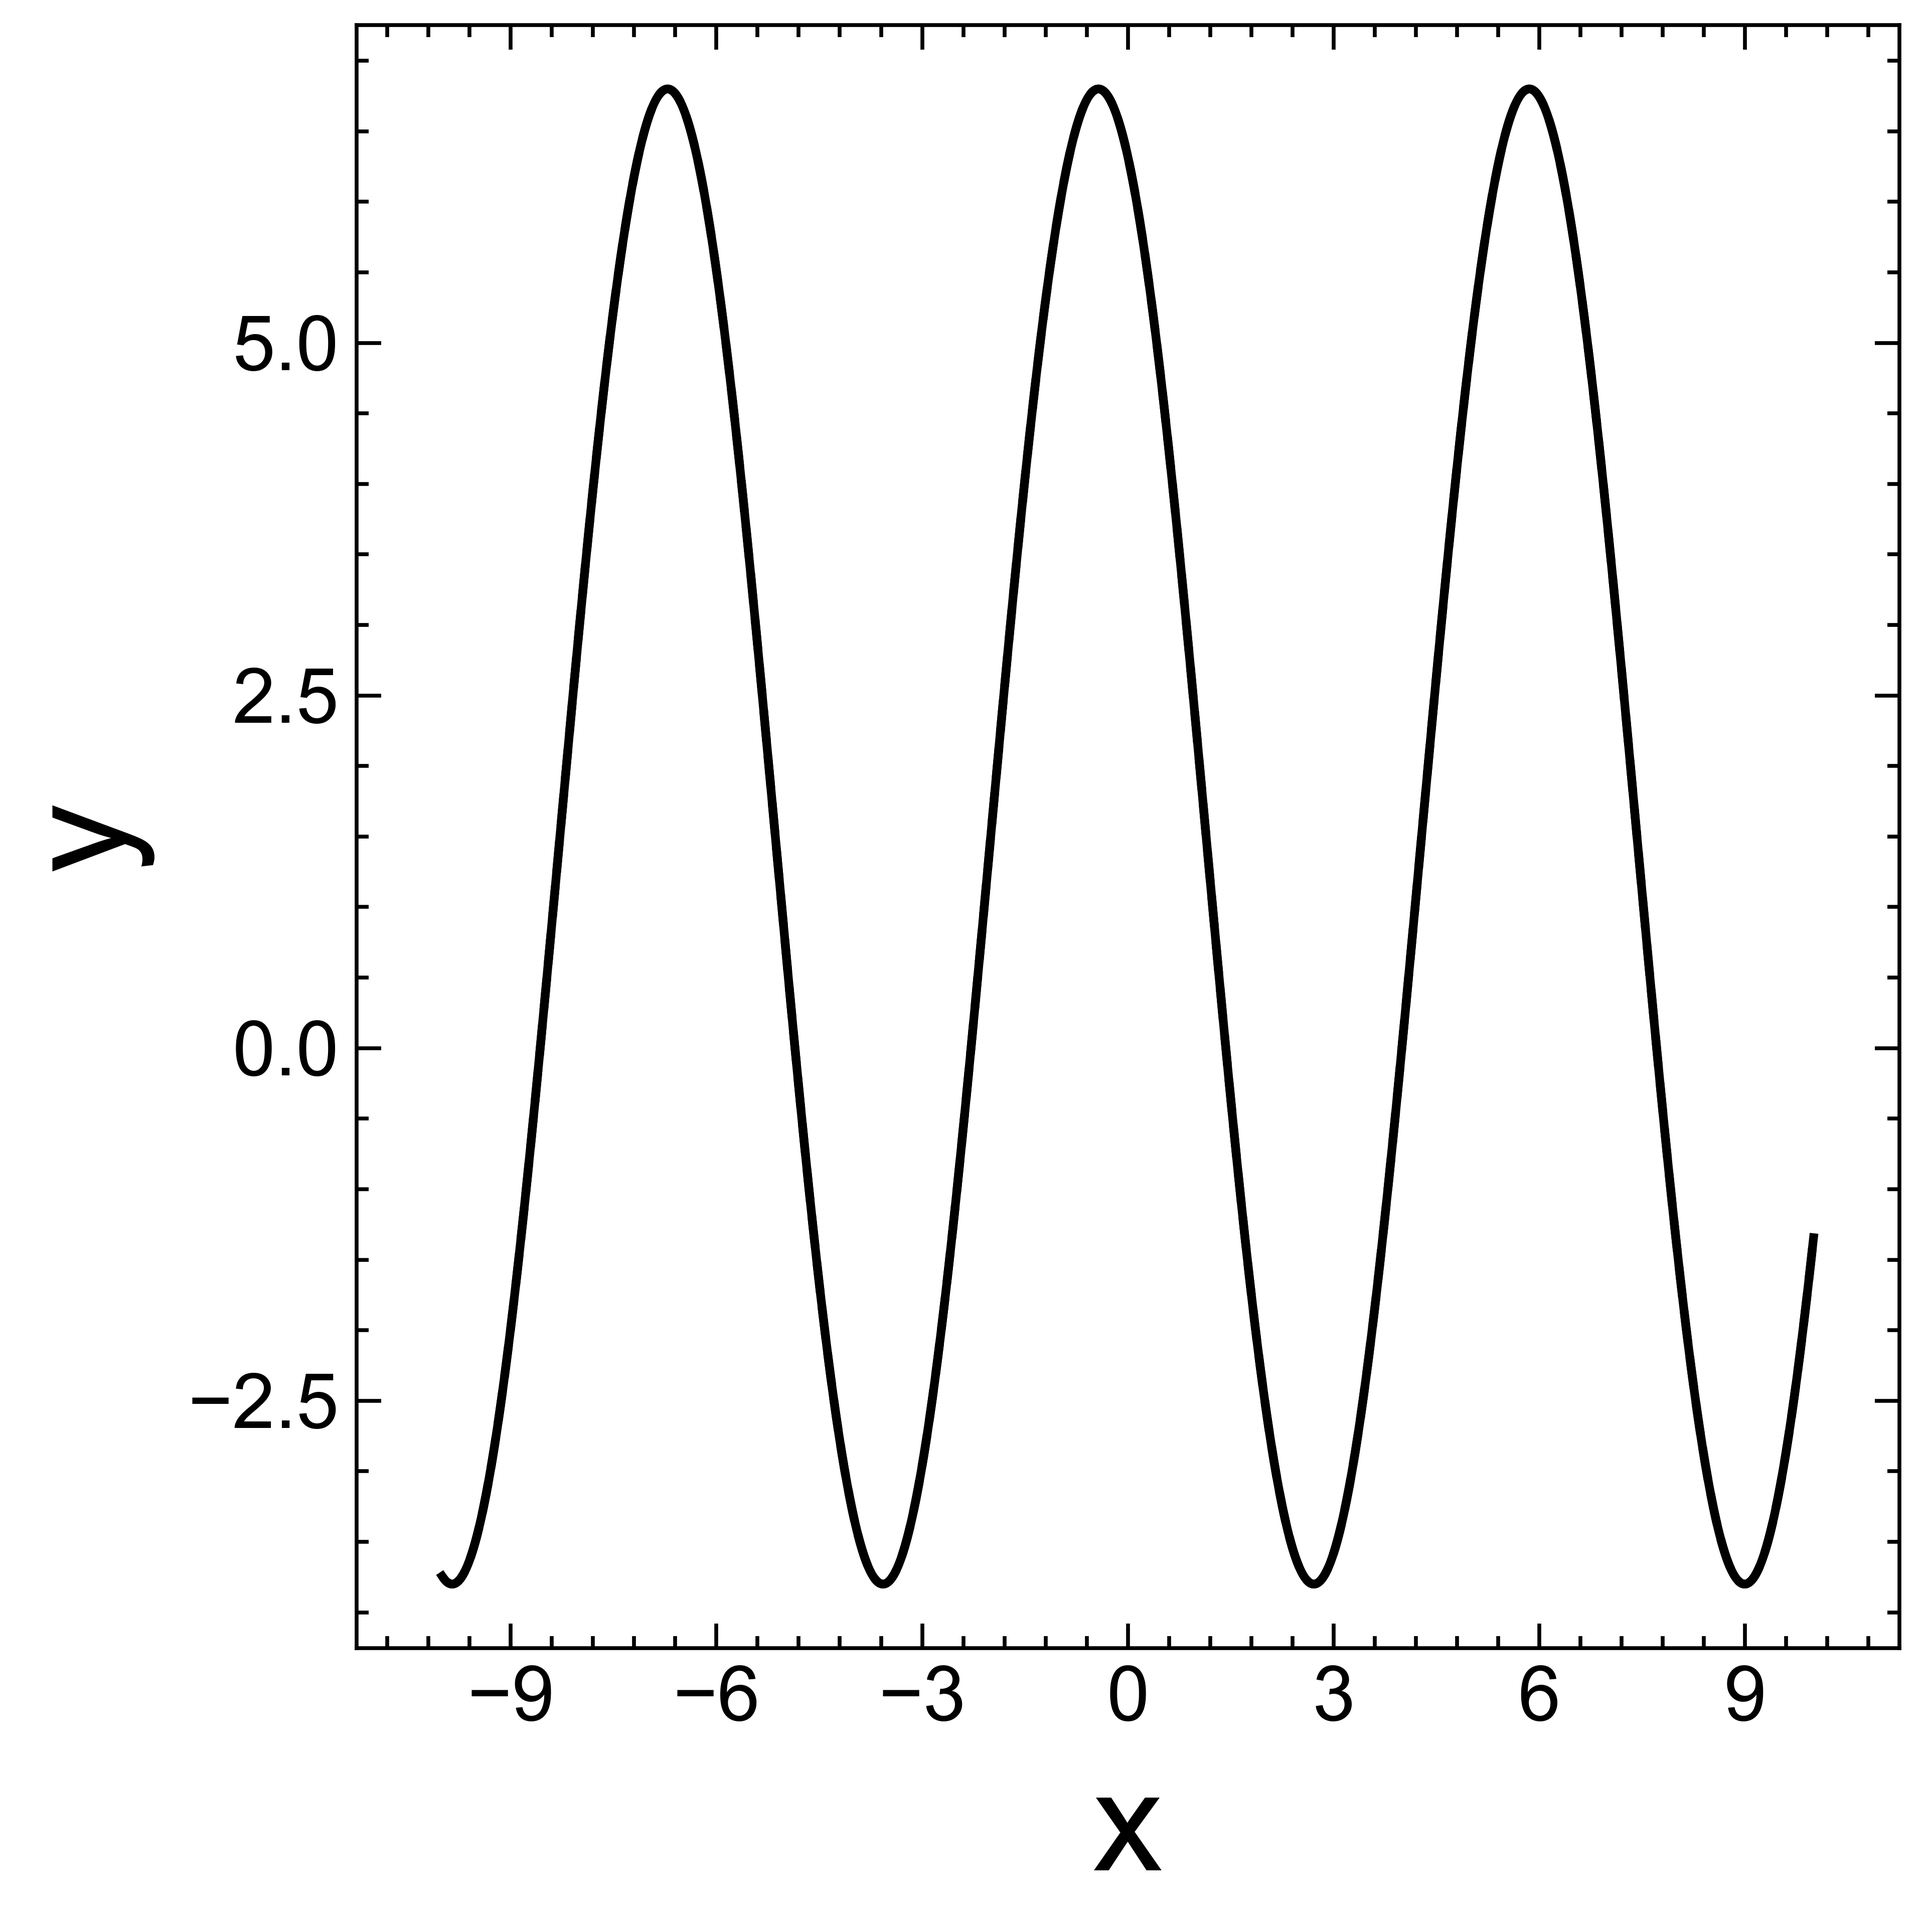
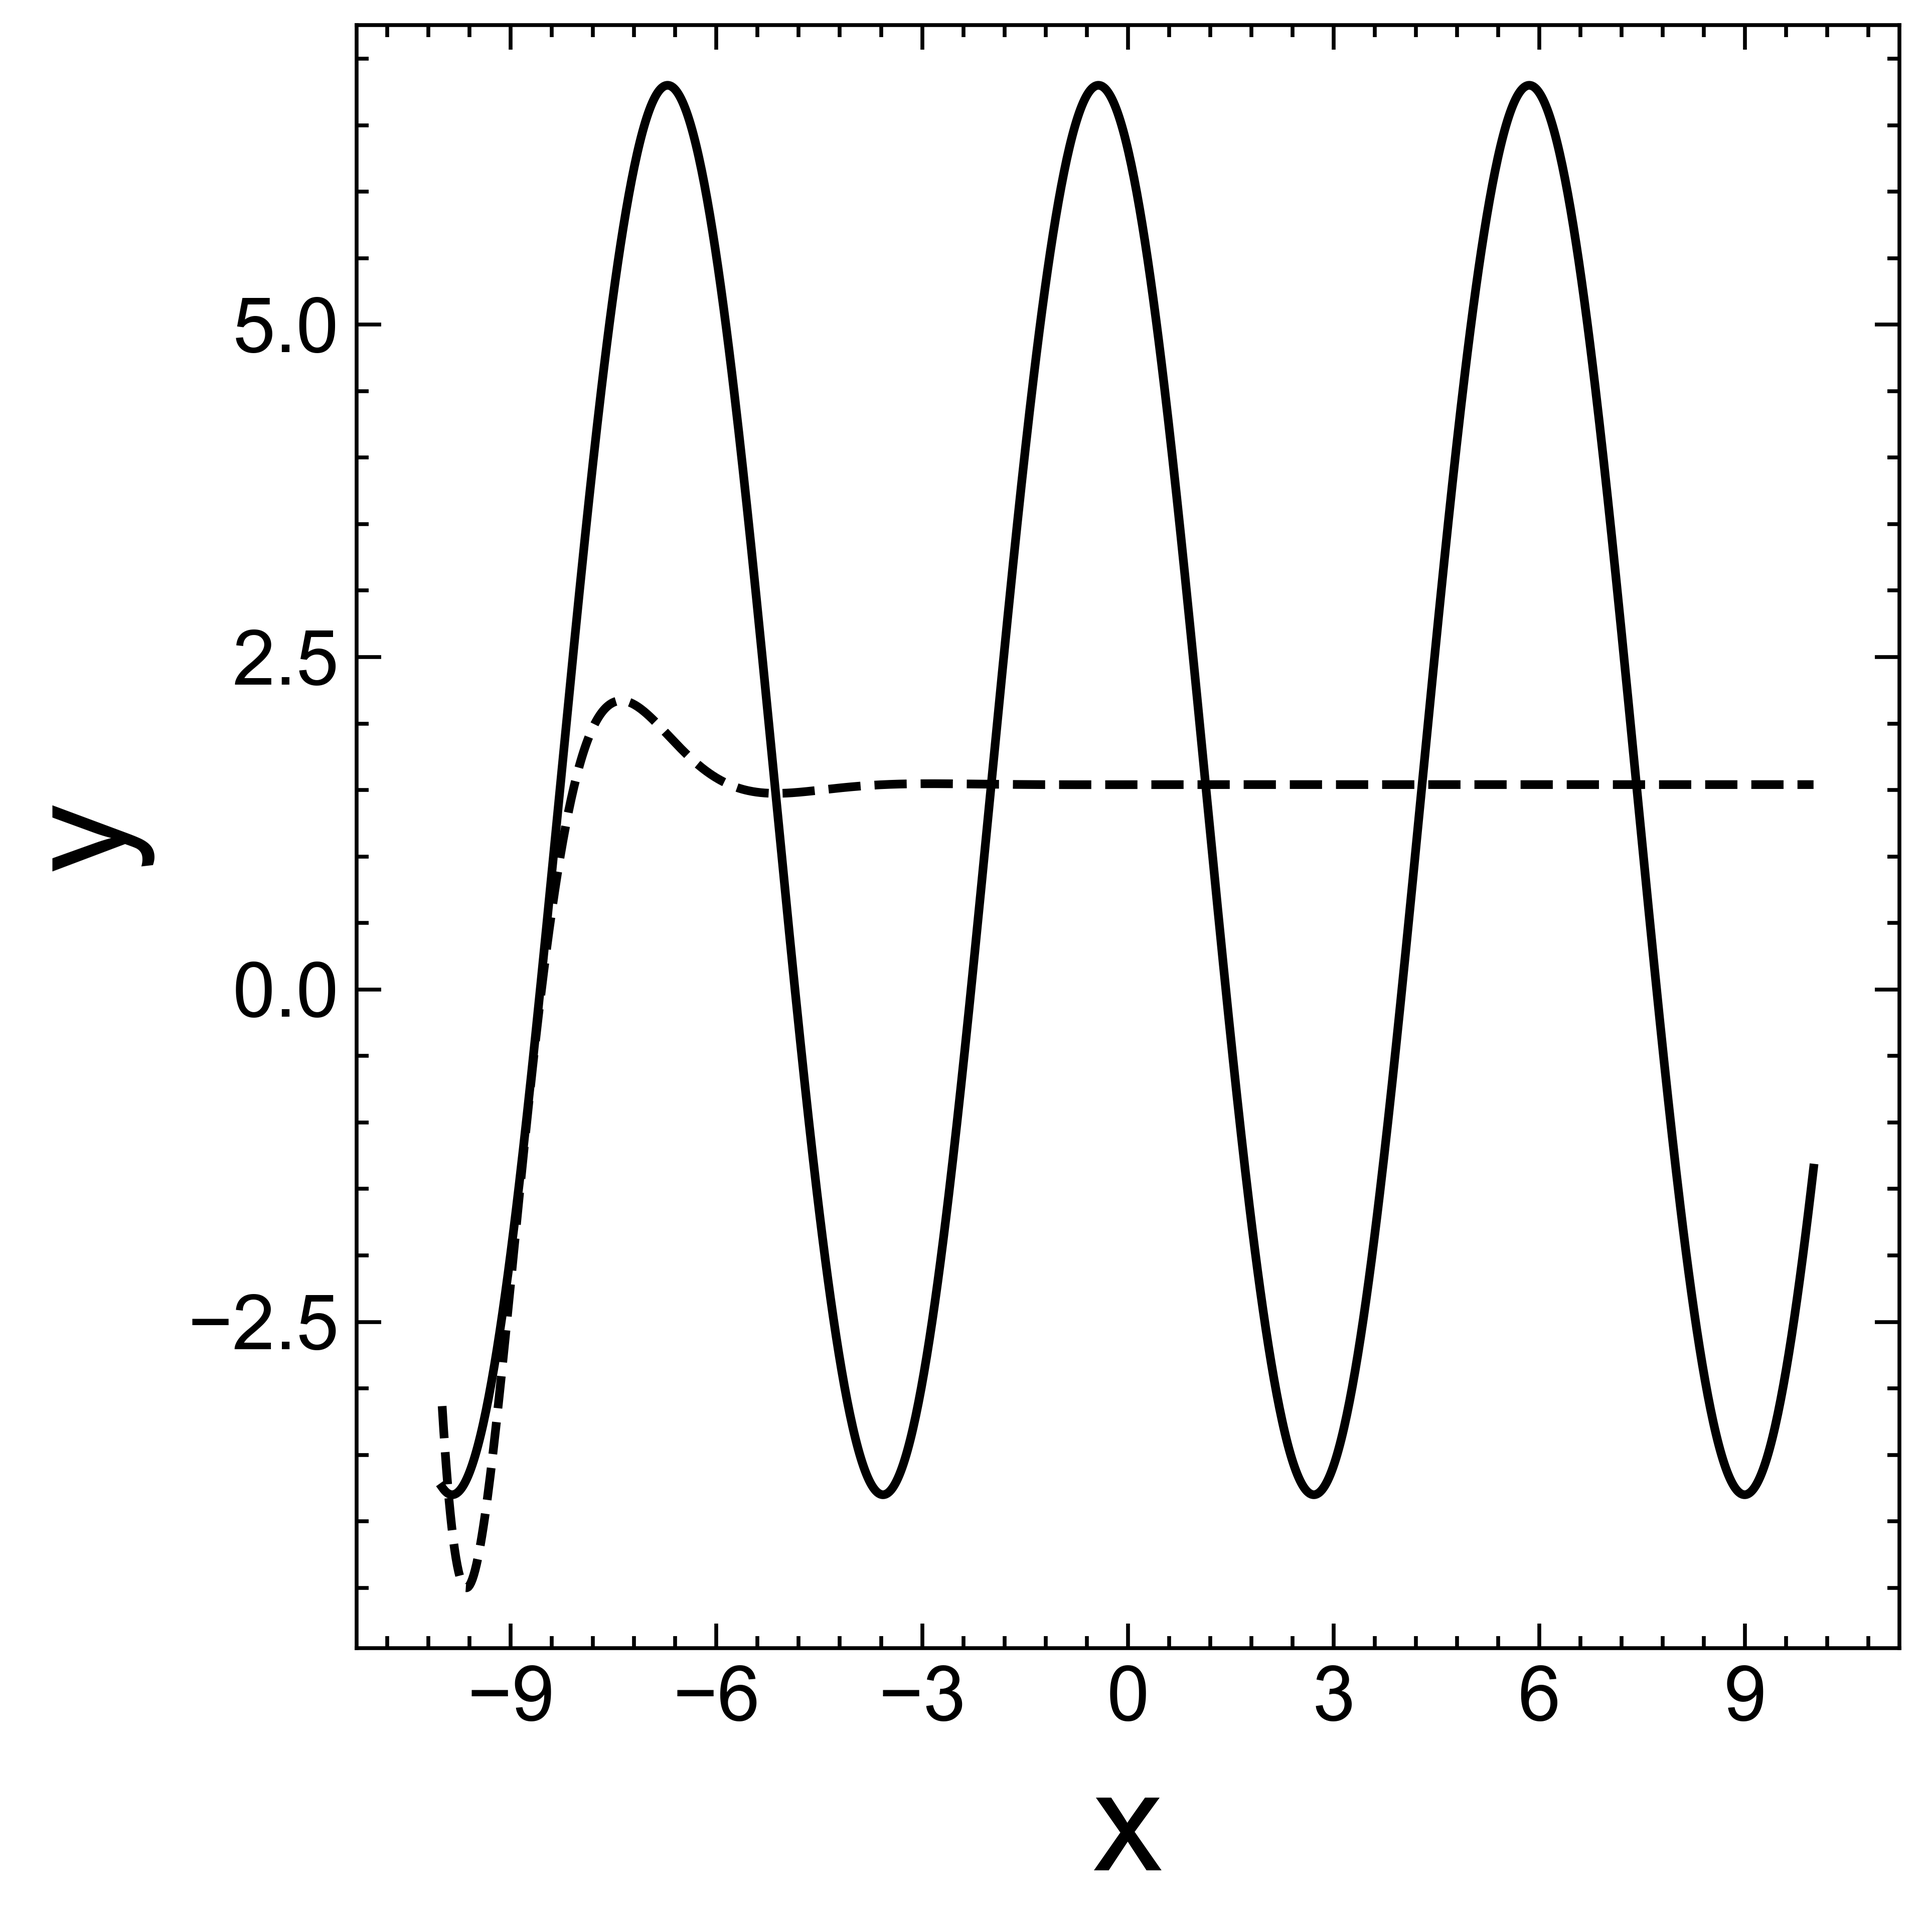
hihi

diff --git a/Plooter.py b/Plooter.py
@@ -2,10 +2,12 @@ import numpy as np
 import pandas as pd
 import matplotlib.pyplot as plt
 from matplotlib.ticker import MaxNLocator
+from matplotlib.ticker import AutoMinorLocator, MultipleLocator, FormatStrFormatter
+from matplotlib import rcParams, cycler
+from scipy.optimize import curve_fit
 
 
 def FixPlot(lx, ly):
-    from matplotlib import rcParams, cycler
     rcParams['font.family'] = 'sans-serif'
     rcParams['font.sans-serif'] = ['Arial']
     rcParams['font.size'] = 40
@@ -51,7 +53,6 @@ def FixPlot(lx, ly):
 
 
 def FixTicks(ax, minorx, minory, multx, multy):
-    from matplotlib.ticker import AutoMinorLocator, MultipleLocator, FormatStrFormatter
     ax.yaxis.set_major_locator(MultipleLocator(multy))
     ax.yaxis.set_minor_locator(AutoMinorLocator(minory))
     ax.xaxis.set_major_locator(MultipleLocator(multx))
@@ -93,11 +94,32 @@ def FixScale(ax, datax, datay, pady=False, padx=False, mirrory=False, mirrorx=Fa
 
 
 def PlottaLine(ax, datax, datay, fmt="-", lw=2.5, funcx=lambda x: x, funcy=lambda y: y, label=None, 
-               contx=0.5, conty=0.5, fit=False, funcfit=lambda x:x, **kargs):
+               contx=0.5, conty=0.5, fit=False, funcfit=lambda x:x, labelfit=None, **kargs):
     x = []
     y = []
     tempx = [funcx(datax[0])]
     tempy = [funcy(datay[0])]
+    maxfev = 1600
+    method = 'lm'
+    p0 = None
+    colofA = 'colorfit' in kargs.keys()
+    fitrangeX = [min(funcx(datax)), max(funcx(datax))]
+
+    if "fitrangeX" in kargs.keys():
+        fitrangeX = kargs["fitrangeX"]
+        kargs.pop("fitrangeX")
+
+    if 'maxfev' in kargs.keys():
+        maxfev = kargs['maxfev']
+        kargs.pop("maxfev")
+
+    if 'method' in kargs.keys():
+        method = kargs['method']
+        kargs.pop("method")
+
+    if 'p0' in kargs.keys():
+        p0 = kargs['p0']
+        kargs.pop("p0")
 
     for i in range(1, len(datax)):
         Desx = np.abs(funcx(datax[i]) - funcx(datax[i - 1])) > contx
@@ -113,35 +135,57 @@ def PlottaLine(ax, datax, datay, fmt="-", lw=2.5, funcx=lambda x: x, funcy=lambd
     x.append(tempx)
     y.append(tempy)
     i = 0
+    if colofA:
+        colorfit = kargs['colorfit']
+        kargs.pop("colorfit")
+    
     a = ax.plot(x[i], y[i], fmt, linewidth=lw, label=label, **kargs)
+    ka = {k: kargs[k] for k in kargs if k != "color"}
     for i in range(1, len(x)):
-        a = ax.plot(x[i], y[i], fmt, linewidth=lw, **kargs, color=a[0].get_color())
+        a = ax.plot(x[i], y[i], fmt, linewidth=lw, **ka, color=a[0].get_color())
     xret = [float(i.strip()) for i in str(x).replace("[", "").replace("]", "").split(",") if i.strip() != '']
     yret = [float(i.strip()) for i in str(y).replace("[", "").replace("]", "").split(",") if i.strip() != '']
     if fit:
-        from scipy.optimize import curve_fit
-        if 'maxfev' in kargs.keys():
-            maxfev = kargs['maxfev']
-        else:
-            maxfev = 1600
-
-        if 'method' in kargs.keys():
-            method = kargs['method']
-        else:
-            method = 'lm'
-
-        if 'p0' in kargs.keys():
-            p0 = kargs['p0']
-        else:
-            p0 = None
-
         popt, pcov = curve_fit(funcfit, funcx(datax), funcy(datay), maxfev=maxfev, method=method, p0=p0)
-        return popt, pcov, [xret, yret], a, *PlottaLine(ax, datax, funcfit(datax, *popt), '--', color=a[0].get_color(), fit=False)
-
-    return [xret, yret], a
+        x_ = funcx(np.linspace(fitrangeX[0], fitrangeX[1], 1000))
+        y_ = funcy(funcfit(x_, *popt))
+        if not colofA:
+            colorfit = a[0].get_color()
+        dret = {"popt": popt, "pcov": pcov, "xb": xret, "yb": yret, "lineb": a}
+        r = PlottaLine(ax, x_, y_, '--', color=colorfit, fit=False, label=labelfit, **ka)
+        dret["xf"] = r["xb"]
+        dret["yf"] = r["yb"]
+        dret["linef"] = r["lineb"]
+        return dret
+    dret = {"xb": xret, "yb": yret, "lineb": a}
+    return dret
 
 def PlottaScatter(ax, datax, datay, funcx=lambda x: x, funcy=lambda y: y, label=None, size=20.0, **kargs):
     arg = [funcx(datax), funcy(datay)]
     a = ax.scatter(*arg, label=label, s=size, **kargs)
     return arg, a
+
+    
+def AddVerticalLine(ax, x, fmt='--', lw=2.5, **kargs):
+    x_ = [x, x]
+    y_ = ax.get_ylim()
+    return ax.plot(x_, y_, fmt, linewidth=lw, **kargs)
+
+def AddVHorizontalLine(ax, y, fmt='--', lw=2.5, **kargs):
+    x_ = ax.get_xlim()
+    y_ = [y, y]
+    return ax.plot(x_, y_, fmt, linewidth=lw, **kargs)
+
+def DecimalPlacesX(ax, n):
+    f = f"%.{n}f"
+    ax.xaxis.set_major_formatter(FormatStrFormatter(f))
+
+def DecimalPlacesY(ax, n):
+    f = f"%.{n}f"
+    ax.yaxis.set_major_formatter(FormatStrFormatter(f))
+
+def DecimalPlaces(ax, nx, ny):
+    DecimalPlacesX(ax, nx)
+    DecimalPlacesY(ax, ny)
+
 

diff --git a/test.py b/test.py
@@ -33,7 +33,15 @@ x = np.linspace(-10, 10, 1000)
 y = 5.3 * np.sin(x + 2.0) + 1.5
 
 fig, ax = plt.subplots()
-popt, pconv, [xb, yb], _, [xf, yf], _ = PlottaLine(ax, x, y, fit=True, funcfit=lambda x, a, b, c, d, e: a * np.sin(b * x + c) * np.exp(-x * e) + d)
+a = PlottaLine(ax, x, y, fit=True, funcfit=lambda x, a, b, c, d, e: a * np.sin(b * x + c) * np.exp(-x) + d)
+yb = a['yb']
+yf = a['yf']
+
+xb = a['xb']
+xf = a['xf']
+
+popt = a['popt']
+pconv = a['pcov']
 
 nY = np.concatenate([yb, yf])
 nX = np.concatenate([xb, xf])
